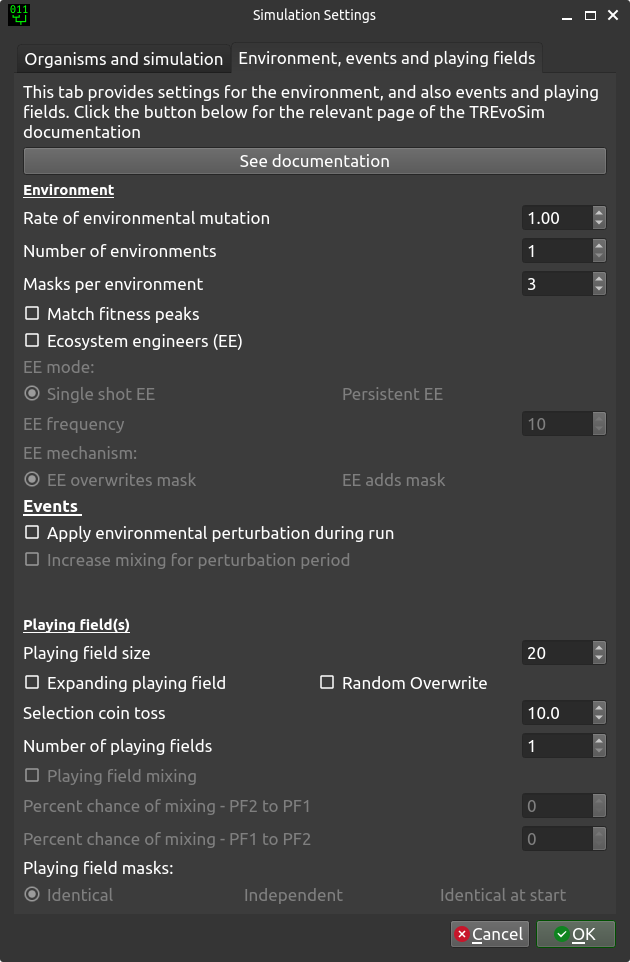
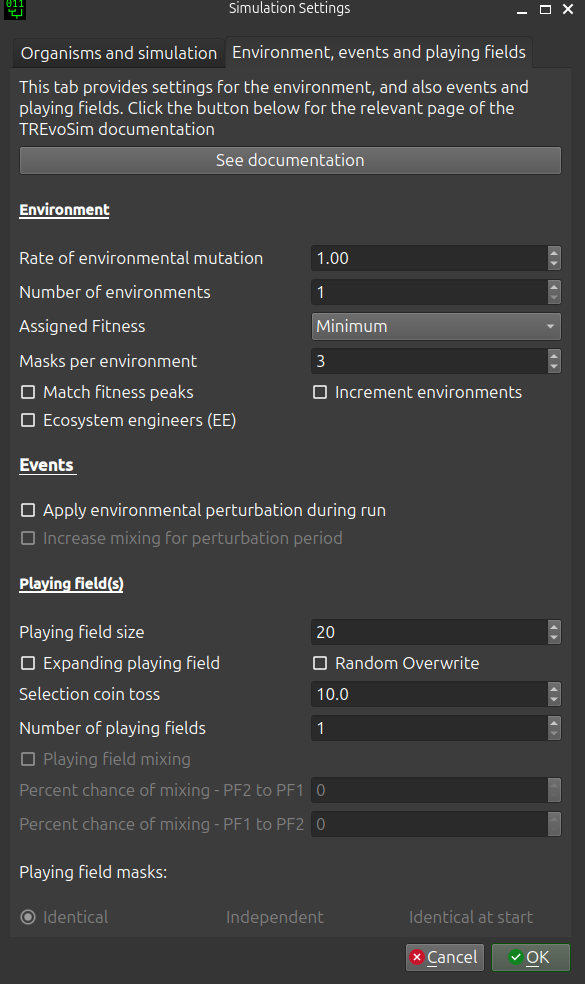
Further updates to docs

diff --git a/docs/settings2.rst b/docs/settings2.rst
@@ -30,7 +30,17 @@ Match fitness peaks
 Increment environments 
     From v3.1.0, there is an option in TREvoSim to increment environments. When this option is selected, a simulation will start with a single environment, and increment this as the run progresses, to achieve the environment number dictated above by the end of the run. When a simulation is running until it reaches a set taxon number, increments will be dictated by the speciations (i.e. it will increase every (requested taxon number / requested environment number) speciations, calculated using integer maths). In contrast, if running to a requested number of iterations, increments will occur every (requested iteration number / requested environment number) iterations. This allows the nature of the fitness landscapes to change through a single run.  
 Ecosystem Engineers
-    From v3.0.0 TREvoSim allows organism-environment feedback through an ecosystem engineering functionality. When this option is enabled, ecosystem engineering starts at either half the requested iteration count, or after half the requested species have appeared. The first time EE occurs, a single, randomly-chosen individual is assigned "EE status" (as are any other individuals with identical genomes), and its genome is used as the basis for organism-environment feedback, as outlined below.This status is passed on to all offspring of this individual for the remainder of the run.
+    From v3.0.0 TREvoSim allows organism-environment feedback through an ecosystem engineering functionality. When this option is enabled, ecosystem engineering starts at either half the requested iteration count, or after half the requested species have appeared. The first time EE occurs, a single, randomly-chosen individual is assigned "EE status" (as are any other individuals with identical genomes), and its genome is used as the basis for organism-environment feedback, as outlined below.This status is passed on to all offspring of this individual for the remainder of the run. When this is selected, further options appear, as shown below.
+
+
+.. figure:: _static/settings_EE.png
+    :align: center
+    :width: 550
+    :alt: A screenshot of a section of the TREvoSim settings panel with options for ecosystem engineering
+
+    The options that appear in the TREvoSim Environment, events and playing fields settings panel when ecosystem engineers are enabled.
+
+
 EE mode
     EE can either be applied once or persistently, defined by this pair of radio buttons. In single shot EE, engineers are applied once, half way through a simulation, as outlined above. In contrast, if the persistent EE radio button is selected, then EE is applied repeatedly after its first application. The frequency at which this occurs is user-defined (see below). On reapplication, a random individual is chosen from within those individuals with EE status every reapplication as the basis for organism-environment feedback. If EEs have gone extinct, no action is taken. 
 EE Frequency
@@ -54,7 +64,7 @@ Playing field size
 Expanding playing field
     When this option is enabled, each species only has a single entry in the playing field. This is overwritten by an individual's progeny every time that species is selected for duplication, and at speciation a new species is added to the end of the playing field (which thus expands to accommodate new species - hence the name). This removes intraspecific competition.
 Random overwrite
-    When this is checked, when a new organism is returned to the playing field (see Keating et al. 2020 for algorithm details), it will overwrite an individual at random. When it is not checked it overwrites the organism with the lowest fitness (or one of these at random if multiple individuals share the lowest fitness).
+    When this is checked, when a new organism is returned to the playing field (see :ref:`algorithmconcepts`), it will overwrite an individual at random. When it is not checked it overwrites the organism with the lowest fitness (or one of these at random if multiple individuals share the lowest fitness).
 Selection coin toss
     This dictates the probability of choosing any given individual when moving down the playing field in the coin toss (i.e. the geometric distribution) to select an individual to duplicate. The probability of selecting an individual is the reciprocal of this (i.e. 1 /  this number). If, e.g., this is 2.0 there is a 50% chance of selecting the first organism in the playing field, then 50% selecting the next, and so on.
 Number of playing fields

diff --git a/docs/software_tests.rst b/docs/software_tests.rst
@@ -12,4 +12,4 @@ TREvoSim has tests covering every function used in the simulation process. If yo
 
     TREvoSim in test mode
 
-The output text in the test log describes each test, and also the expected output. The system then makes sure the output meets these expectations. Failed tests will be highlighted in green, and explain why they have failed. A small number of the tests are, by necessity, stochastic and will occasionally fail. In this case, a sensible first step is to repeat that test to see if this happens a second time. This functionality is provided so it is possible for the user to check TREvoSim is running as expected and described in the publications introducing the model: if there is an element of the TREvoSim functionality that is of particular importance to your science, the tests help provide insight into the mode of operation of that part of the simulation, and the coders' expectations for how it works. More broadly, if you are interested in how the model runs, beyond looking at the source code, you can alternatively/additionally output a working log to check the internal workings of the software - see :ref:`Running log` option *Write full working log*. 
+The output text in the test log describes each test, and also the expected output. The system then makes sure the output meets these expectations. Failed tests will be highlighted in green, and explain why they have failed. A small number of the tests are, by necessity, stochastic and will occasionally fail. In this case, a sensible first step is to repeat that test to see if this happens a second time. This functionality is provided so it is possible for the user to check TREvoSim is running as expected and described in the publications introducing the model: if there is an element of the TREvoSim functionality that is of particular importance to your science, the tests help provide insight into the mode of operation of that part of the simulation, and the coders' expectations for how it works. More broadly, if you are interested in how the model runs, beyond looking at the source code, you can alternatively/additionally output a working log to check the internal workings of the software - see :ref:`Running log` option *Write full working log*. For further technical details, see :ref:`Development testing`.
